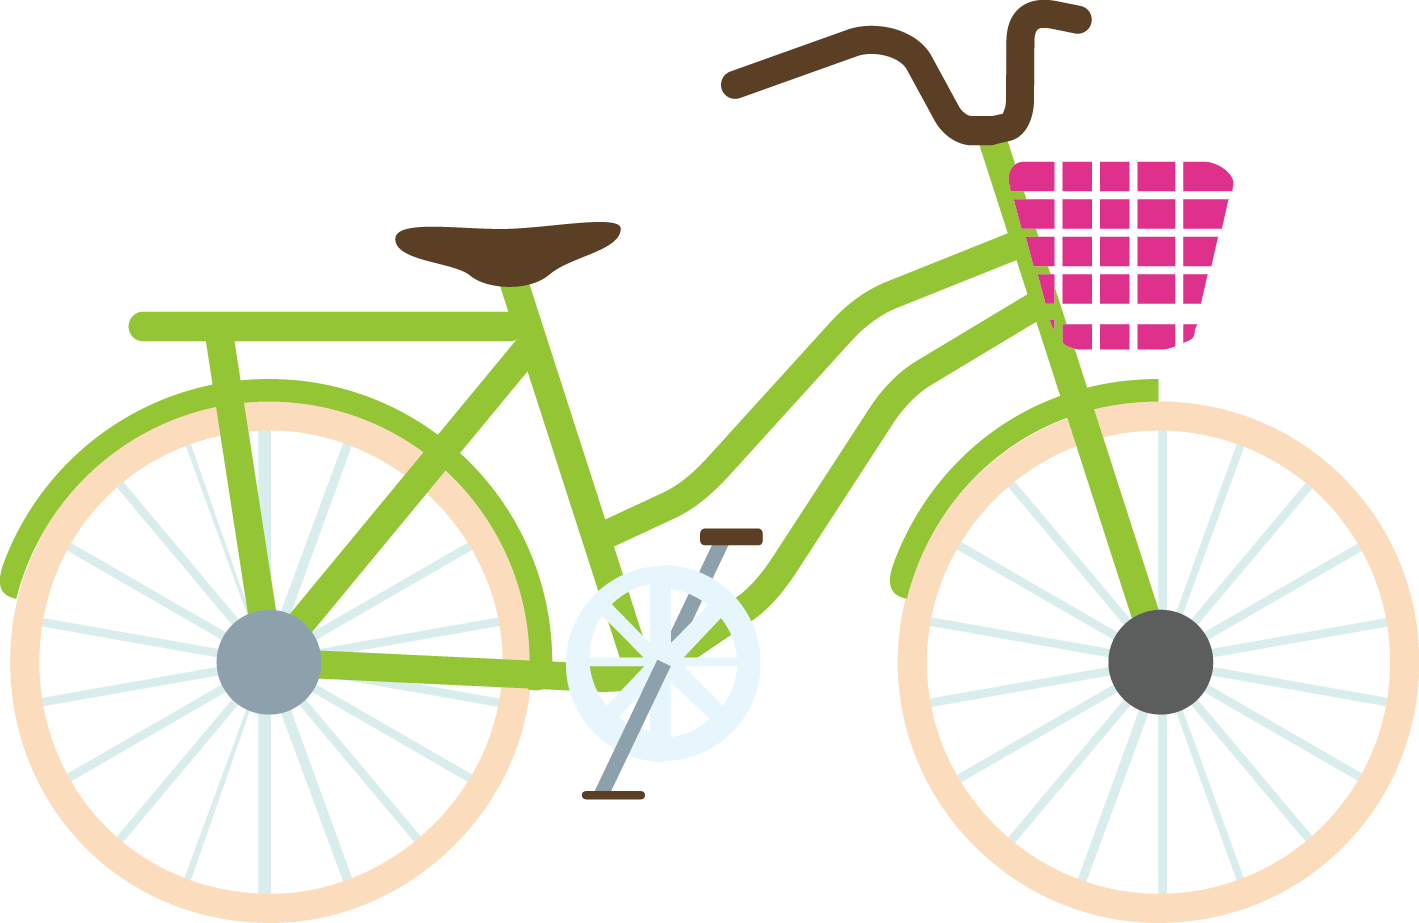
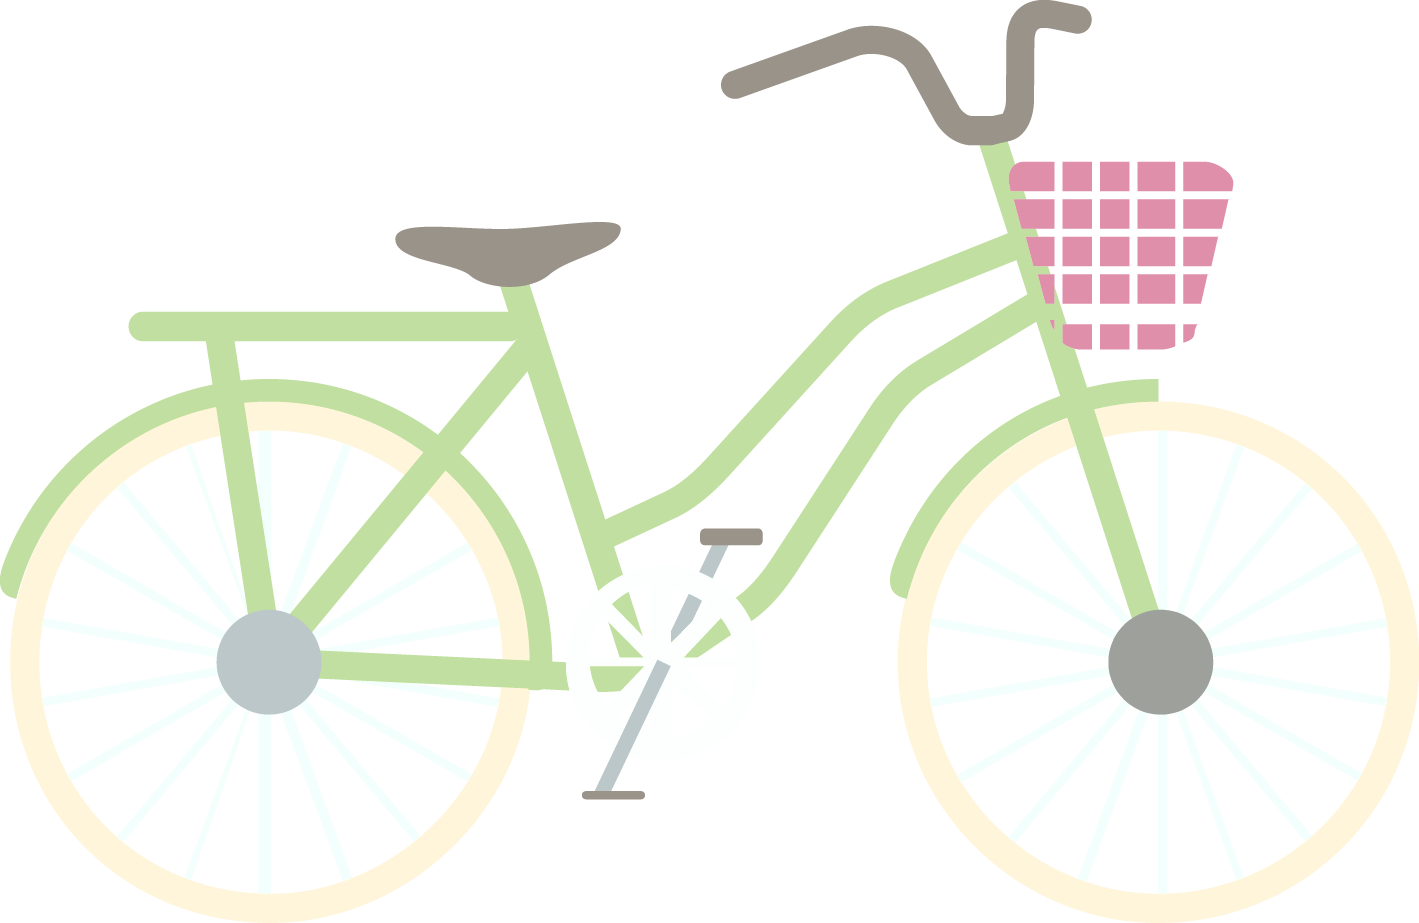
Add files via upload

diff --git a/home.js b/home.js
@@ -1,11 +1,11 @@
 (function(){
 
-    $('.-pepe').parallax({imageSrc: './assets/img/landing/pepe.jpg'});
+    $('.-pepe').parallax({imageSrc: './bike.png'});
     $('.-ahoj').parallax({imageSrc: './ahoj.jpg'});
-    $('.-mt').parallax({imageSrc: './assets/img/landing/mt.jpg'});
-    $('.-edit').parallax({imageSrc: './assets/img/landing/edit.jpg'});
-    $('.-dc').parallax({imageSrc: './assets/img/landing/dc.jpg'});
-    $('.-zh').parallax({imageSrc: './assets/img/landing/zh.jpg'});
+    $('.-mt').parallax({imageSrc: './bike.png'});
+    $('.-edit').parallax({imageSrc: './bike.png'});
+    $('.-dc').parallax({imageSrc: './bike.png'});
+    $('.-zh').parallax({imageSrc: './bike.png'});
 
     $('.root').fullpage({
         easingcss3: 'cubic-bezier(0.770, 0.000, 0.175, 1.000)',
